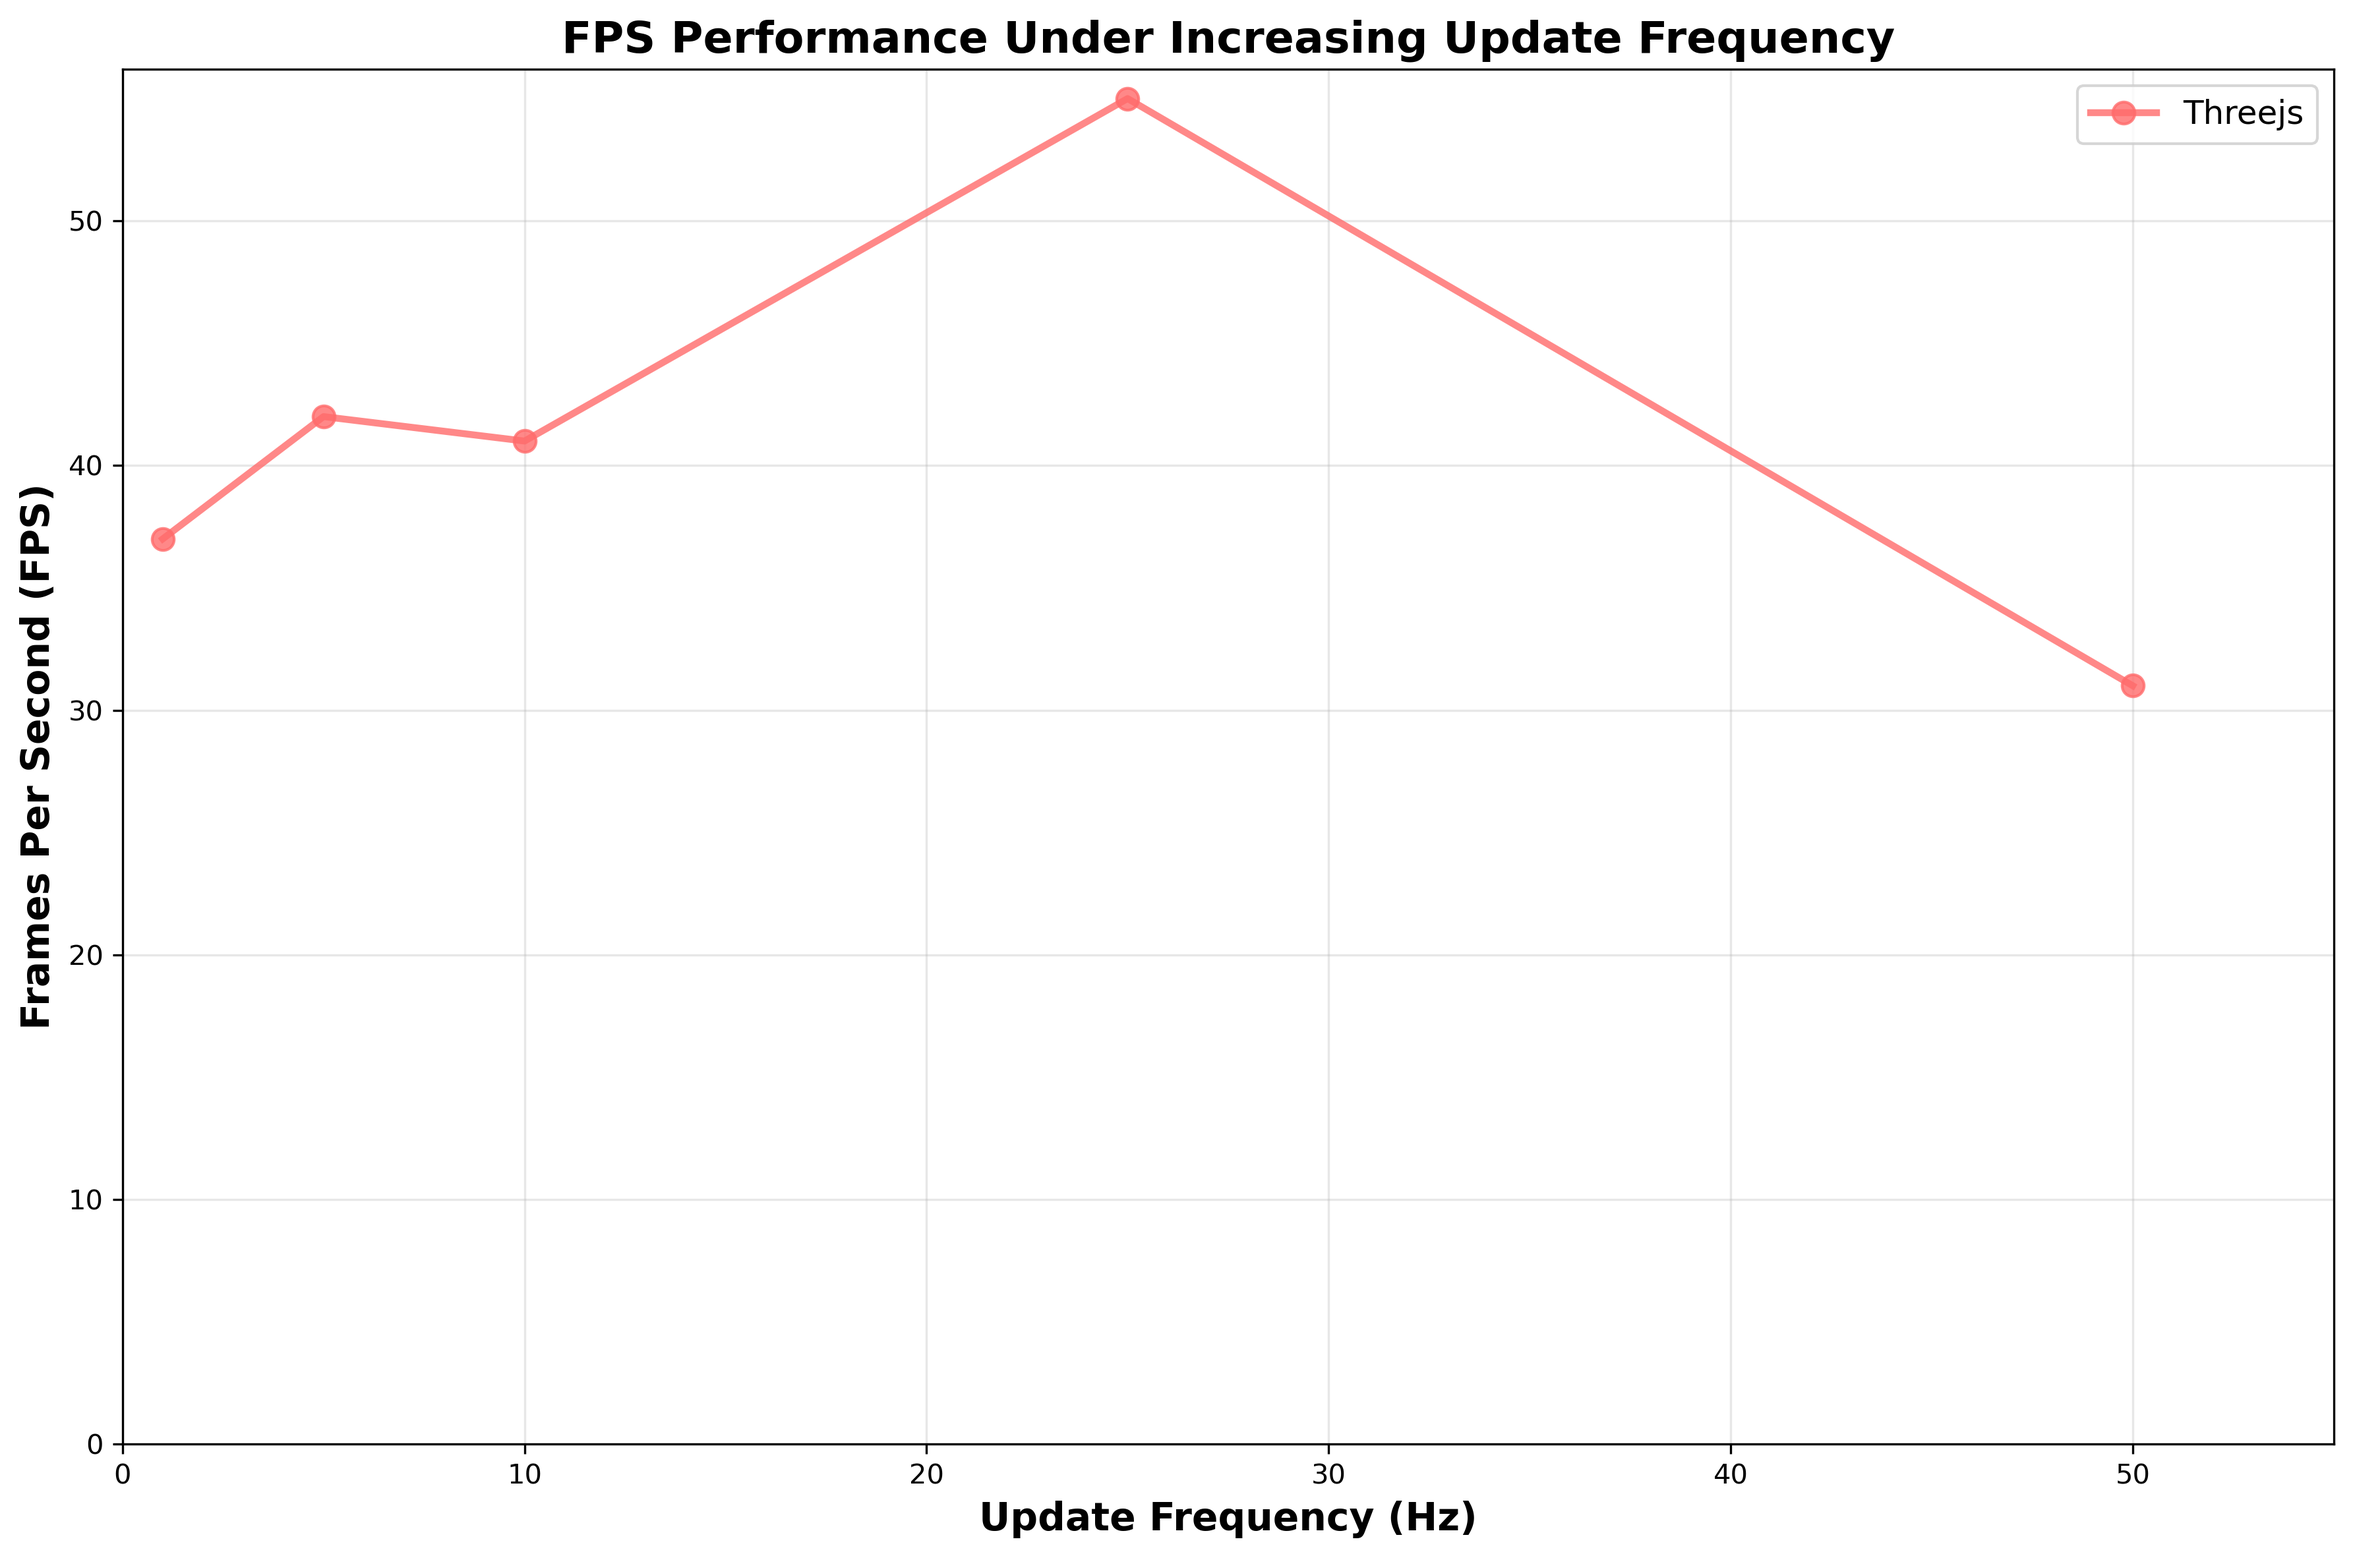
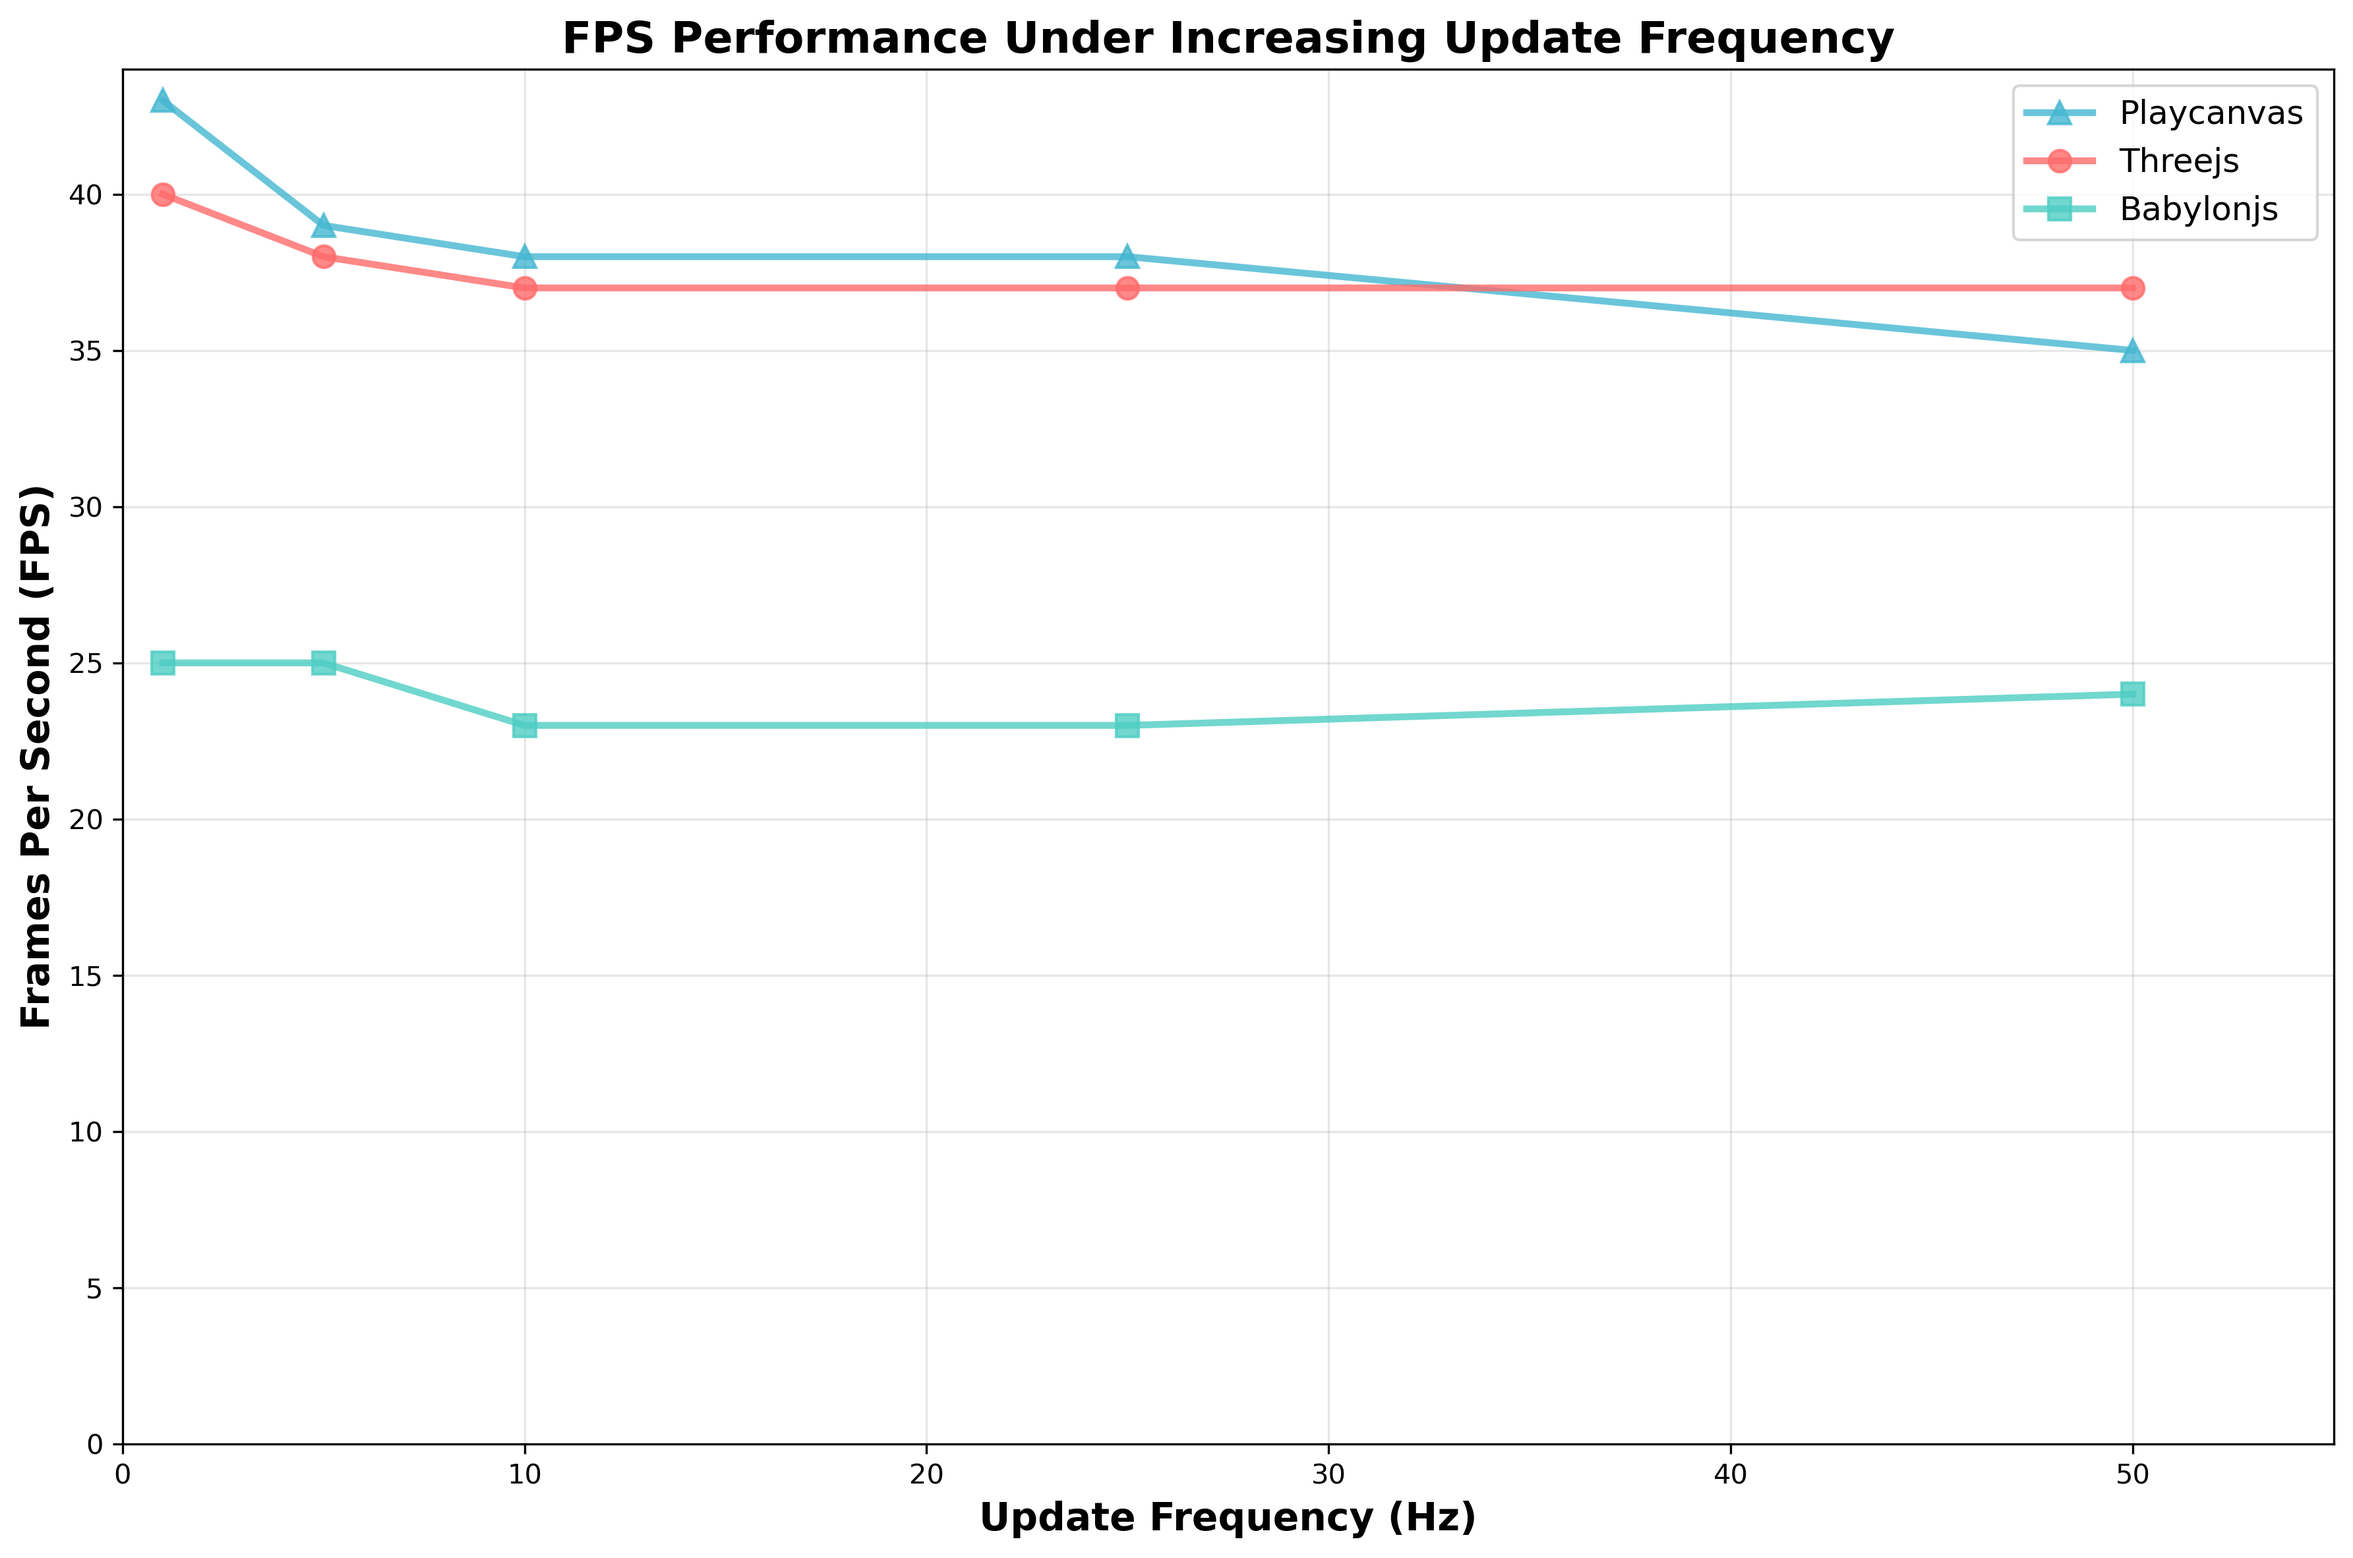
Stress test updated

diff --git a/3d-visualization-comparison/js/simulation.js b/3d-visualization-comparison/js/simulation.js
@@ -529,8 +529,12 @@ const Simulation = {
         
         // Update digital twin data if interval has passed - use stress test data updates if in stress test mode
         if (now - this.config.lastDataUpdate > this.config.dataUpdateInterval) {
-            if (this.stressTest.enabled) {
-                this._updateDigitalTwinDataStressTest();
+            if (this.stressTest.enabled && this.stressTest.mode === 'maximum-throughput') {
+                // Only use old method for maximum throughput mode
+                this._handleMaximumThroughputUpdates(now);
+            } else if (this.stressTest.enabled && this.stressTest.mode === 'frequency-stepped') {
+                // For frequency-stepped, updates are handled by high-frequency timer
+                // Just update the last data update time to prevent normal data updates
             } else {
                 this._updateDigitalTwinData();
             }
@@ -798,6 +802,7 @@ const Simulation = {
         maxUpdatesPerFrame: 1,         // Updates per frame (calculated based on frequency)
         droppedUpdates: 0,             // Track missed/dropped updates
         syncIssues: 0,                 // Track desync incidents
+        timerId: null,                 // High-frequency timer ID
     },
 
     // Stress test camera waypoints - simple corner-to-corner loop focusing on mixers
@@ -927,11 +932,19 @@ const Simulation = {
         
         // Start the simulation with stress test configuration
         this.start(activeInstance);
+        
+        // CRITICAL FIX: Start high-frequency timer independent of requestAnimationFrame
+        if (mode === 'frequency-stepped') {
+            this._startHighFrequencyTimer();
+        }
     },
 
     // Stop stress test and restore normal simulation
     stopStressTest() {
         if (!this.stressTest.enabled) return;
+        
+        // Stop high-frequency timer if running
+        this._stopHighFrequencyTimer();
         
         // Complete the final phase if in frequency-stepped mode
         if (this.stressTest.mode === 'frequency-stepped' && this.stressTest.phaseResults.length <= this.stressTest.currentPhase) {
@@ -1076,7 +1089,9 @@ const Simulation = {
         }
         
         if (this.stressTest.mode === 'frequency-stepped') {
-            this._handleFrequencySteppedUpdates(now);
+            // Frequency-stepped updates are now handled by high-frequency timer
+            // This method is only called for maximum-throughput mode
+            console.log('Note: Frequency-stepped updates handled by high-frequency timer');
         } else {
             this._handleMaximumThroughputUpdates(now);
         }
@@ -1106,20 +1121,28 @@ const Simulation = {
             return;
         }
         
-        // Calculate if it's time for the next update based on target frequency
+        // FIXED: Use high-precision timing with no dependency on animation frames
         const targetInterval = 1000 / this.stressTest.targetUpdatesPerSecond; // ms between updates
         const timeSinceLastUpdate = now - this.stressTest.lastMixerUpdate;
         
-        if (timeSinceLastUpdate >= targetInterval) {
-            // Perform the update
-            this._performSingleRandomUpdate();
+        // Send multiple updates if we're behind schedule to catch up
+        const updatesDue = Math.floor(timeSinceLastUpdate / targetInterval);
+        
+        if (updatesDue >= 1) {
+            // Send up to 5 updates per call to catch up, but don't overwhelm
+            const updatesToSend = Math.min(updatesDue, 5);
             
-            // Track actual update time for frequency analysis
-            this.stressTest.actualUpdateTimes.push(now);
+            for (let i = 0; i < updatesToSend; i++) {
+                this._performSingleRandomUpdate();
+                
+                // Track actual update time for frequency analysis
+                this.stressTest.actualUpdateTimes.push(now);
+                this.stressTest.updateCycle++;
+            }
+            
             this.stressTest.lastMixerUpdate = now;
-            this.stressTest.updateCycle++;
             
-            // Update visualization immediately
+            // Update visualization after batch of updates
             this._updateVisualizationFromLatestState();
         }
     },
@@ -1220,6 +1243,32 @@ const Simulation = {
         this.stressTest.actualUpdateTimes = [];
         this.stressTest.droppedUpdates = 0;
         this.stressTest.syncIssues = 0;
+    },
+
+    // Start high-frequency timer for precise update timing (independent of render loop)
+    _startHighFrequencyTimer() {
+        // Use setInterval with 1ms precision for maximum update frequency
+        this.stressTest.timerId = setInterval(() => {
+            if (!this.stressTest.enabled || this.stressTest.mode !== 'frequency-stepped') {
+                clearInterval(this.stressTest.timerId);
+                this.stressTest.timerId = null;
+                return;
+            }
+            
+            const now = performance.now();
+            this._handleFrequencySteppedUpdates(now);
+        }, 1); // Check every 1ms for maximum precision
+        
+        console.log('High-frequency timer started for precise update control');
+    },
+
+    // Stop high-frequency timer
+    _stopHighFrequencyTimer() {
+        if (this.stressTest.timerId) {
+            clearInterval(this.stressTest.timerId);
+            this.stressTest.timerId = null;
+            console.log('High-frequency timer stopped');
+        }
     },
 
     // Start the next frequency phase
